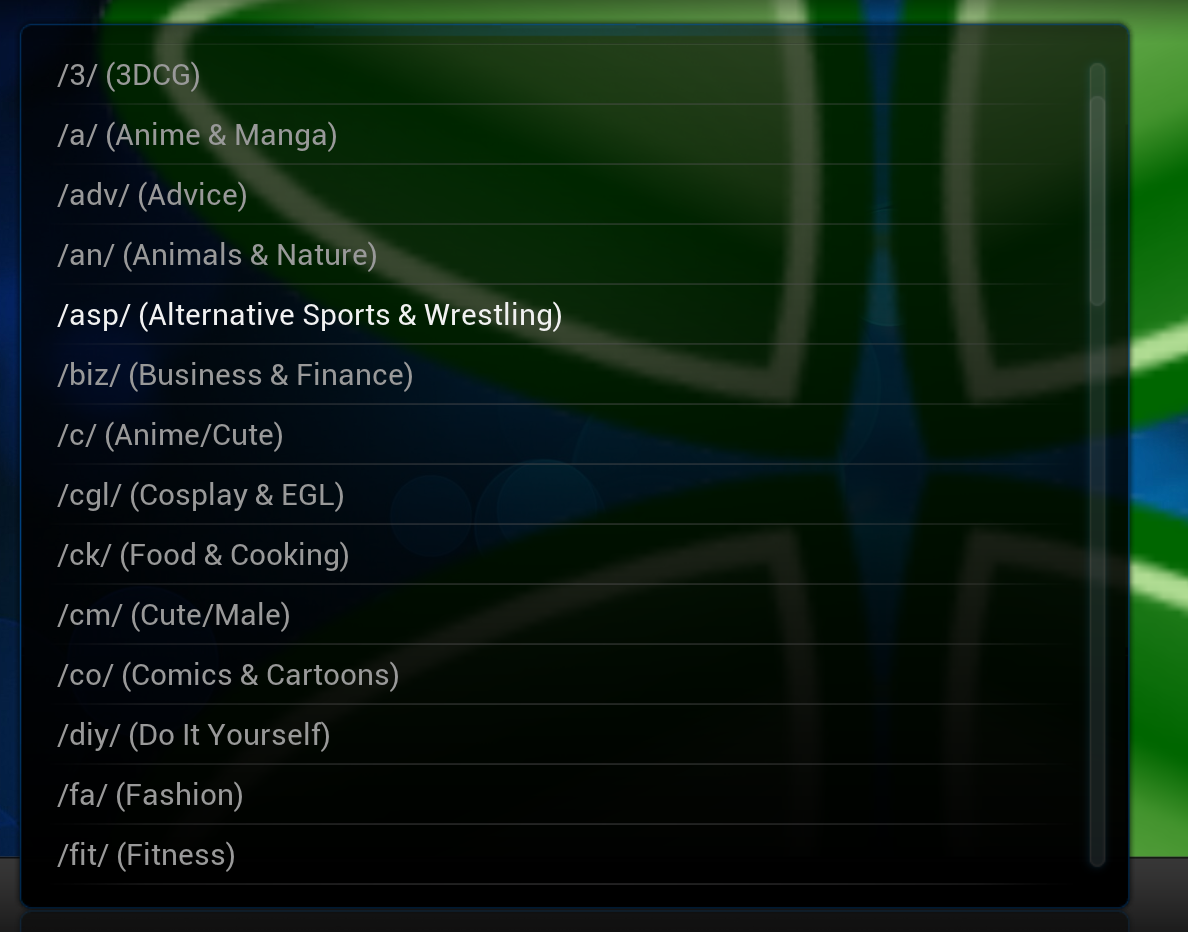
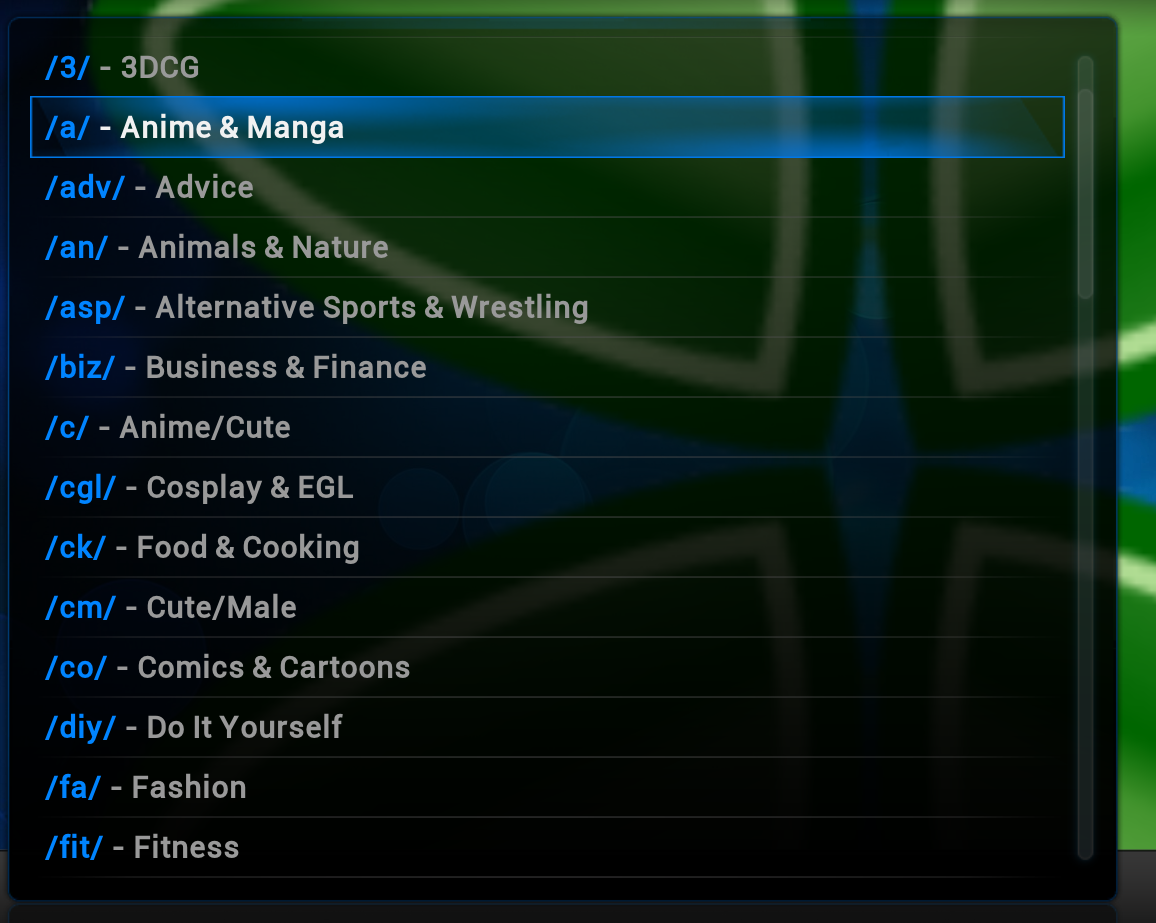
show nsfw boards in red

diff --git a/resources/lib/home.py b/resources/lib/home.py
@@ -14,9 +14,14 @@ class Main:
         boards = utils.get_boards()["boards"]
         nsfw = control.setting("enable_nsfw") == 'true'
         for b in boards:
-            if not nsfw and (b["ws_board"] == 0):
+            is_nsfw = b["ws_board"] == 0
+            if not nsfw and is_nsfw:
                 continue
-            title = "/%s/ (%s)" % (b["board"], b["title"])
+            if is_nsfw:
+                title = utils.text_board_nsfw % (b["board"], b["title"])
+            else:
+                title = utils.text_board % (b["board"], b["title"])
+
             utils.add_directory(title, utils.icon_board, utils.icon_board,
                                 "%s?action=board&board=%s&total_pages=%s" % (sys.argv[0],
                                                                              urllib.quote_plus(b["board"]),

diff --git a/resources/lib/utils.py b/resources/lib/utils.py
@@ -33,6 +33,9 @@ image_ext = [".jpg", ".jpeg", ".png", ".bmp", ".webp"]
 
 text_green = "[B][COLOR green][UPPERCASE]%s[/UPPERCASE][/COLOR][/B]"
 
+text_board = "[B][COLOR blue][LOWERCASE]/%s/[/LOWERCASE][/COLOR] - %s[/B]"
+text_board_nsfw = "[B][COLOR red][LOWERCASE]/%s/[/LOWERCASE][/COLOR] - [COLOR red]%s[/COLOR][/B]"
+
 
 def add_directory(text, icon, thumbnail, url):
     list_item = xbmcgui.ListItem(text, iconImage=icon, thumbnailImage=thumbnail)

diff --git a/readme.md b/readme.md
@@ -8,3 +8,7 @@ This is just something I threw together because I was bored and found the [4Chan
 ![](https://github.com/camalot/kochandi/raw/develop/.github/kochandi-settings.png)
 
 ![](https://github.com/camalot/kochandi/raw/develop/.github/kochandi-boards.png)
+
+When you enable NSFW boards they are indicated in red.
+
+![](https://github.com/camalot/kochandi/raw/develop/.github/kochandi-boards-adult.png)
